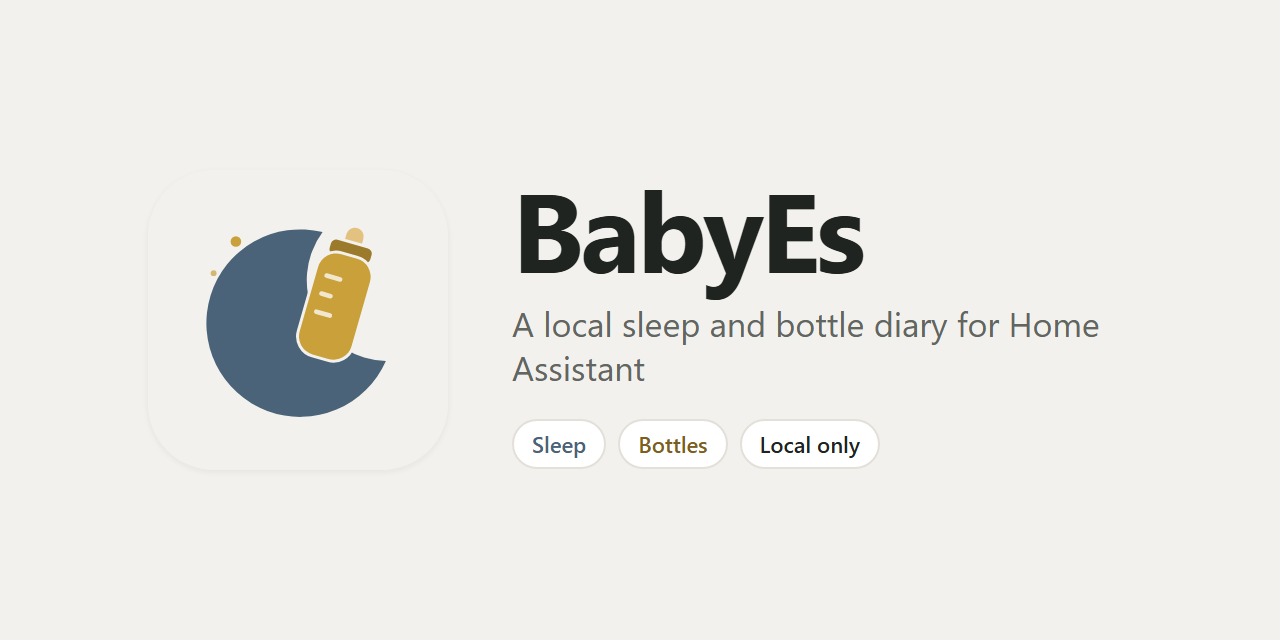
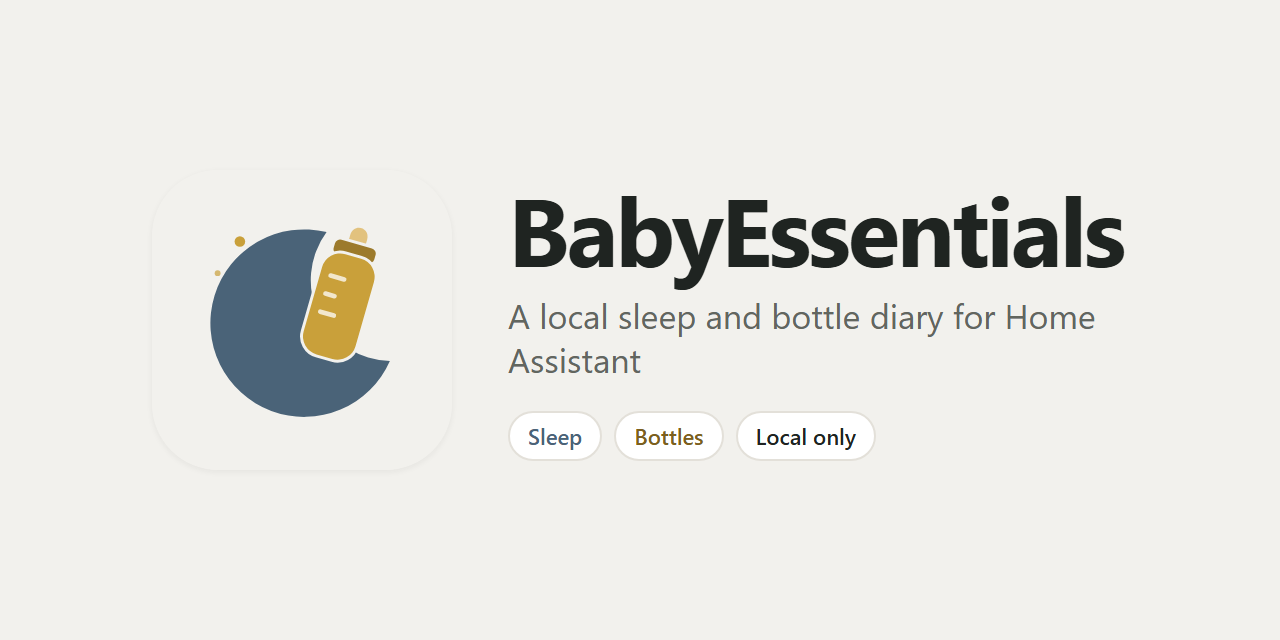
0.3.1: renamed to BabyEssentials, glowing moon while asleep, +/- round typed amounts

diff --git a/custom_components/babyes/frontend/babyes-card.js b/custom_components/babyes/frontend/babyes-card.js
@@ -1,8 +1,8 @@
-/* BabyEs Card
- * Sleep and bottle diary card for Home Assistant. Served by the BabyEs
+/* BabyEssentials Card
+ * Sleep and bottle diary card for Home Assistant. Served by the BabyEssentials
  * integration itself, so no dashboard resource is needed.
  *
- * Talks only to the BabyEs WebSocket API (babyes/*). Stores nothing itself,
+ * Talks only to the BabyEssentials WebSocket API (babyes/*). Stores nothing itself,
  * except whether the timeline is shown (localStorage, per device).
  * "Undo" only deletes the single entry this card created seconds earlier.
  * Language, 12/24-hour clock and colours follow the user's Home Assistant
@@ -15,7 +15,7 @@
 (() => {
   "use strict";
   const TAG = "babyes-card";
-  const VERSION = "0.3.0";
+  const VERSION = "0.3.1";
   if (customElements.get(TAG)) return;
 
   /* ---------- language ---------- */
@@ -65,7 +65,7 @@
       validWake: "Velg et gyldig tidspunkt for oppvåkning.", chooseWake: "Velg når søvnen sluttet.",
       wakeAfter: "Våknet må være etter sovnet.", noConn: "Ingen tilkobling til Home Assistant.",
       unknownErr: "Ukjent feil",
-      notSetup: "BabyEs er ikke satt opp. Legg den til under Innstillinger → Enheter og tjenester.",
+      notSetup: "BabyEssentials er ikke satt opp. Legg den til under Innstillinger → Enheter og tjenester.",
       h: "t", min: "min", cfgName: "Navn (valgfritt)", cfgStep: "Steg per trykk",
       cardDesc: "Søvn og flaske i ett kort: start/stopp søvn, ny flaske, historikk og grafer.",
       err_invalid_time: "Ugyldig dato eller klokkeslett.", err_no_timezone: "Tidspunktet må ha tidssone.",
@@ -81,7 +81,7 @@
       err_amount_invalid: "Mengder må være hele tall mellom 0 og 1000 ml.", err_amount_zero: "Registrer minst 1 ml.",
       err_note_too_long: "Notatet er for langt.", err_not_found: "Fant ikke registreringen. Last inn historikken på nytt.",
       err_conflict: "Registreringen er endret på en annen enhet. Åpne den på nytt.",
-      err_not_ready: "BabyEs er ikke satt opp eller laster fortsatt.",
+      err_not_ready: "BabyEssentials er ikke satt opp eller laster fortsatt.",
       err_storage_error: "Kunne ikke lagre. Prøv igjen.",
     },
     en: {
@@ -129,7 +129,7 @@
       validWake: "Choose a valid wake-up time.", chooseWake: "Choose when the sleep ended.",
       wakeAfter: "Wake-up must be after falling asleep.", noConn: "No connection to Home Assistant.",
       unknownErr: "Unknown error",
-      notSetup: "BabyEs is not set up. Add it under Settings → Devices & services.",
+      notSetup: "BabyEssentials is not set up. Add it under Settings → Devices & services.",
       h: "h", min: "min", cfgName: "Name (optional)", cfgStep: "Step per tap",
       cardDesc: "Sleep and bottles in one card: start/stop sleep, new bottle, history and charts.",
       err_invalid_time: "Invalid date or time.", err_no_timezone: "The time must include a time zone.",
@@ -145,7 +145,7 @@
       err_amount_invalid: "Amounts must be whole numbers between 0 and 1000 ml.", err_amount_zero: "Register at least 1 ml.",
       err_note_too_long: "The note is too long.", err_not_found: "The entry was not found. Reload the history.",
       err_conflict: "The entry was changed on another device. Open it again.",
-      err_not_ready: "BabyEs is not set up or still loading.",
+      err_not_ready: "BabyEssentials is not set up or still loading.",
       err_storage_error: "Could not save. Try again.",
     },
   };
@@ -261,6 +261,26 @@
     });
     return best ? best.raw : "";
   };
+  // Moonlight while asleep: a night sky made from the theme's sleep colour,
+  // darkened just enough that the pale moon on it has at least 4.5:1 contrast,
+  // and a moon tinted slightly towards the same colour.
+  const lum = ([r, g, b]) => {
+    const f = (c) => { c /= 255; return c <= 0.03928 ? c / 12.92 : ((c + 0.055) / 1.055) ** 2.4; };
+    return 0.2126 * f(r) + 0.7152 * f(g) + 0.0722 * f(b);
+  };
+  const contrast = (a, b) => { const x = lum(a), y = lum(b); return (Math.max(x, y) + 0.05) / (Math.min(x, y) + 0.05); };
+  const mix = (a, b, w) => a.map((v, i) => Math.round(v * (1 - w) + b[i] * w));
+  const hex = (c) => `#${c.map((v) => v.toString(16).padStart(2, "0")).join("")}`;
+  const pickNightColours = (el) => {
+    const cs = getComputedStyle(el);
+    const sleep = toRgb(cs.getPropertyValue("--be-sleep")) || [3, 169, 244];
+    const moon = mix([255, 247, 222], sleep, 0.12);
+    const deep = [10, 14, 30];
+    let sky = sleep;
+    for (let w = 0.25; w <= 1; w += 0.05) { sky = mix(sleep, deep, w); if (contrast(moon, sky) >= 4.5) break; }
+    const vars = { "--be-night-sky": hex(sky), "--be-moon": hex(moon) };
+    return { key: `${vars["--be-night-sky"]}|${vars["--be-moon"]}`, vars };
+  };
   // Formula gets its own theme colour, as far as possible from both the
   // breast-milk colour and the sleep colour, so the two never look alike.
   const pickFormulaColour = (el) => {
@@ -368,7 +388,23 @@
   .eyebrow{font-size:12px;line-height:16px;letter-spacing:.06em;text-transform:uppercase;font-weight:600;color:var(--be-sleep-ink);white-space:nowrap;overflow:hidden;text-overflow:ellipsis}
   .headline{margin:0;font-size:22px;line-height:1.2;font-weight:600;letter-spacing:-.01em}
   .sub{font-size:14px;color:var(--be-muted)}
-  .badge{width:40px;height:40px;flex:none;border-radius:50%;display:grid;place-items:center;background:color-mix(in srgb,var(--be-sleep) 14%,var(--be-card));color:var(--be-sleep-ink)}
+  .badge{position:relative;width:40px;height:40px;flex:none;border-radius:50%;display:grid;place-items:center;background:color-mix(in srgb,var(--be-sleep) 14%,var(--be-card));color:var(--be-sleep-ink)}
+  /* asleep: a lit moon on a night sky in the theme's sleep colour, a slow breathing glow
+     and two twinkling stars, so it reads at a glance without any text */
+  .top{position:relative}
+  .top>*{position:relative}
+  .top.night::before{content:"";position:absolute;top:-60px;right:-60px;width:220px;height:200px;border-radius:50%;pointer-events:none;
+    background:radial-gradient(closest-side,color-mix(in srgb,var(--be-sleep) 24%,transparent),transparent);animation:be-glow 4s ease-in-out infinite;animation-delay:var(--be-phase,0s)}
+  .badge.night{width:44px;height:44px;margin:-2px -2px 0 0;background:radial-gradient(circle at 35% 30%,color-mix(in srgb,var(--be-night-sky) 80%,var(--be-moon)),var(--be-night-sky) 70%);color:var(--be-moon);
+    box-shadow:0 0 0 3px color-mix(in srgb,var(--be-sleep) 22%,transparent),0 0 18px 3px color-mix(in srgb,var(--be-sleep) 45%,transparent);animation:be-halo 4s ease-in-out infinite;animation-delay:var(--be-phase,0s)}
+  .badge.night .ico{fill:currentColor;stroke:currentColor;filter:drop-shadow(0 0 4px color-mix(in srgb,var(--be-moon) 70%,transparent))}
+  .badge.night i{position:absolute;width:3px;height:3px;border-radius:50%;background:var(--be-moon);animation:be-twinkle 2.6s ease-in-out infinite}
+  .badge.night i:nth-of-type(1){top:9px;right:9px;animation-delay:calc(var(--be-phase,0s) * .65)}
+  .badge.night i:nth-of-type(2){bottom:10px;left:10px;width:2px;height:2px;animation-delay:calc(var(--be-phase,0s) * .65 - 1.3s)}
+  @keyframes be-halo{0%,100%{box-shadow:0 0 0 3px color-mix(in srgb,var(--be-sleep) 18%,transparent),0 0 12px 2px color-mix(in srgb,var(--be-sleep) 32%,transparent)}
+    50%{box-shadow:0 0 0 5px color-mix(in srgb,var(--be-sleep) 26%,transparent),0 0 26px 6px color-mix(in srgb,var(--be-sleep) 55%,transparent)}}
+  @keyframes be-glow{0%,100%{opacity:.65}50%{opacity:1}}
+  @keyframes be-twinkle{0%,100%{opacity:.25;transform:scale(.7)}50%{opacity:1;transform:scale(1)}}
   .strip{width:100%;min-height:48px;display:flex;align-items:center;gap:8px;padding:6px 6px 6px 12px;border:0;border-radius:12px;background:var(--be-soft);text-align:left;transition:background-color .15s ease}
   .strip:hover{background:color-mix(in srgb,var(--be-ink) 8%,var(--be-card))}
   .halves{flex:1;min-width:0;display:grid;grid-template-columns:repeat(2,minmax(0,1fr))}
@@ -515,7 +551,7 @@
   @media (prefers-reduced-motion:reduce){*,*::backdrop{animation:none!important;transition:none!important}}
   `;
 
-  class BabyEsCard extends HTMLElement {
+  class BabyEssentialsCard extends HTMLElement {
     constructor() {
       super();
       this.attachShadow({ mode: "open" });
@@ -648,7 +684,7 @@
     get _name() { return this._config.name || this._backendName || "Baby"; }
 
     setConfig(config) {
-      if (!config || typeof config !== "object") throw new Error("BabyEs: invalid configuration.");
+      if (!config || typeof config !== "object") throw new Error("BabyEssentials: invalid configuration.");
       const step = Math.trunc(num(config.step ?? 5));
       this._config = { name: String(config.name || ""), step: Math.max(1, Math.min(50, step || 5)) };
       this._renderCard();
@@ -681,6 +717,11 @@
         this._feedColour = c;
         if (c) this.style.setProperty("--be-feed-auto", c);
         else this.style.removeProperty("--be-feed-auto");
+      }
+      const night = pickNightColours(this);
+      if (night.key !== this._nightKey) {
+        this._nightKey = night.key;
+        for (const [k, v] of Object.entries(night.vars)) this.style.setProperty(k, v);
       }
       const f = pickFormulaColour(this);
       if (f === this._formulaColour) return;
@@ -829,9 +870,9 @@
         </div></div></div>`;
 
       this._cardEl.innerHTML = `<ha-card class="be">
-        <div class="top">
+        <div class="top${ongoing ? " night" : ""}" style="--be-phase:${-((now % 4000) / 1000).toFixed(2)}s">
           <div class="head"><div class="state"><span class="eyebrow">${esc(name)}</span><h2 class="headline">${esc(headline)}</h2><span class="sub">${esc(since)}</span></div>
-            <span class="badge" aria-hidden="true">${icon(ongoing ? "moon" : "sun", 20)}</span></div>
+            <span class="badge${ongoing ? " night" : ""}" aria-hidden="true">${icon(ongoing ? "moon" : "sun", ongoing ? 22 : 20)}${ongoing ? "<i></i><i></i>" : ""}</span></div>
           <div class="slot" role="status" aria-live="polite">${slot}</div>
           <button type="button" class="tl-toggle" data-action="timeline" aria-expanded="${open}" aria-controls="tl" ${!ready ? "disabled" : ""}>${esc(open ? t("hideTimeline") : t("showTimeline"))}${icon("down", 16)}</button>
           ${timeline}
@@ -1180,7 +1221,10 @@
         case "back": this._form = null; this._pane = "history"; this._renderSheet(); this._animate("swap", 260); return;
         case "use-last": { const l = this._lastFeed(); if (l) { this._form.breast = clampMl(l.e.breast_milk_ml); this._form.formula = clampMl(l.e.formula_ml); this._renderSheet(); } return; }
         case "step": {
-          this._form[el.dataset.key] = clampMl(this._form[el.dataset.key] + Number(el.dataset.d) * step);
+          // A typed amount off the step (23) first snaps to it (+ → 25, − → 20), then moves a whole step.
+          const cur = clampMl(this._form[el.dataset.key]), dir = Number(el.dataset.d);
+          const off = cur % step;
+          this._form[el.dataset.key] = clampMl(off ? (dir > 0 ? cur - off + step : cur - off) : cur + dir * step);
           this._bump = el.dataset.key; this._renderSheet(); this._bump = "";
           return;
         }
@@ -1314,11 +1358,11 @@
     }
   }
 
-  customElements.define(TAG, BabyEsCard);
+  customElements.define(TAG, BabyEssentialsCard);
   window.customCards = window.customCards || [];
   if (!window.customCards.some((c) => c.type === TAG)) {
     pickLang({ language: document.documentElement.lang });
-    window.customCards.push({ type: TAG, name: "BabyEs", description: t("cardDesc"), preview: false });
+    window.customCards.push({ type: TAG, name: "BabyEssentials", description: t("cardDesc"), preview: false });
   }
-  console.info(`%c BABYES CARD %c ${VERSION} `, "background:#3E3A45;color:#F3EEF1;font-weight:bold", "background:#C9AEBC;color:#2A2430");
+  console.info(`%c BABYESSENTIALS CARD %c ${VERSION} `, "background:#3E3A45;color:#F3EEF1;font-weight:bold", "background:#C9AEBC;color:#2A2430");
 })();

diff --git a/custom_components/babyes/frontend/babyes-loader.js b/custom_components/babyes/frontend/babyes-loader.js
@@ -1,4 +1,4 @@
-/* BabyEs card loader.
+/* BabyEssentials card loader.
  * Home Assistant registers this small file once at startup. On every page
  * load it asks the server which version of babyes-card.js is on disk (a HEAD
  * request; only headers, no download) and imports the card with that version

diff --git a/custom_components/babyes/config_flow.py b/custom_components/babyes/config_flow.py
@@ -1,4 +1,4 @@
-"""Set up BabyEs from the UI. The name you enter stays in your Home Assistant only."""
+"""Set up BabyEssentials from the UI. The name you enter stays in your Home Assistant only."""
 from __future__ import annotations
 
 try:
@@ -16,7 +16,7 @@ def _name(value) -> str:
     return (str(value or "").strip() or DEFAULT_NAME)[:40]
 
 
-class BabyEsConfigFlow(config_entries.ConfigFlow, domain=DOMAIN):
+class BabyEssentialsConfigFlow(config_entries.ConfigFlow, domain=DOMAIN):
     VERSION = 1
 
     async def async_step_user(self, user_input=None):
@@ -32,10 +32,10 @@ class BabyEsConfigFlow(config_entries.ConfigFlow, domain=DOMAIN):
     @staticmethod
     @callback
     def async_get_options_flow(config_entry):
-        return BabyEsOptionsFlow()
+        return BabyEssentialsOptionsFlow()
 
 
-class BabyEsOptionsFlow(config_entries.OptionsFlow):
+class BabyEssentialsOptionsFlow(config_entries.OptionsFlow):
     async def async_step_init(self, user_input=None):
         if user_input is not None:
             name = _name(user_input.get(CONF_NAME))

diff --git a/custom_components/babyes/entity.py b/custom_components/babyes/entity.py
@@ -1,4 +1,4 @@
-"""Shared base for BabyEs entities: one device named by the user, translated entity names."""
+"""Shared base for BabyEssentials entities: one device named by the user, translated entity names."""
 from __future__ import annotations
 
 from homeassistant.core import callback
@@ -8,7 +8,7 @@ from homeassistant.helpers.entity import Entity
 from .const import DOMAIN, VERSION
 
 
-class BabyEsEntity(Entity):
+class BabyEssentialsEntity(Entity):
     _attr_should_poll = False
     _attr_has_entity_name = True
 
@@ -20,7 +20,7 @@ class BabyEsEntity(Entity):
         self._attr_device_info = DeviceInfo(
             identifiers={(DOMAIN, entry.entry_id)},
             name=runtime["name"],
-            manufacturer="BabyEs",
+            manufacturer="BabyEssentials",
             model="Diary",
             sw_version=VERSION,
             entry_type=DeviceEntryType.SERVICE,

diff --git a/custom_components/babyes/sensor.py b/custom_components/babyes/sensor.py
@@ -13,7 +13,7 @@ from datetime import datetime
 from homeassistant.components.sensor import SensorDeviceClass, SensorEntity
 from homeassistant.const import UnitOfTime, UnitOfVolume
 
-from .entity import BabyEsEntity
+from .entity import BabyEssentialsEntity
 from .runtime import get_runtime
 from .store import Diary, parse, utcnow
 
@@ -77,10 +77,10 @@ SPECS = (
 
 async def async_setup_entry(hass, entry, async_add_entities) -> None:
     runtime = get_runtime(hass)
-    async_add_entities([BabyEsSensor(runtime, spec) for spec in SPECS])
+    async_add_entities([BabyEssentialsSensor(runtime, spec) for spec in SPECS])
 
 
-class BabyEsSensor(BabyEsEntity, SensorEntity):
+class BabyEssentialsSensor(BabyEssentialsEntity, SensorEntity):
     def __init__(self, runtime: dict, spec: Spec) -> None:
         super().__init__(runtime, spec.key)
         self._spec = spec

diff --git a/custom_components/babyes/websocket.py b/custom_components/babyes/websocket.py
@@ -1,4 +1,4 @@
-"""Authenticated WebSocket API used by the BabyEs dashboard card."""
+"""Authenticated WebSocket API used by the BabyEssentials dashboard card."""
 from __future__ import annotations
 
 from typing import Any
@@ -18,7 +18,7 @@ from .store import Diary, DiaryError
 def _diary(hass, connection, msg) -> Diary | None:
     runtime = get_runtime(hass)
     if runtime is None:
-        connection.send_error(msg["id"], "not_ready", "BabyEs is not set up or still loading.")
+        connection.send_error(msg["id"], "not_ready", "BabyEssentials is not set up or still loading.")
         return None
     return runtime["diary"]
 

diff --git a/custom_components/babyes/binary_sensor.py b/custom_components/babyes/binary_sensor.py
@@ -3,7 +3,7 @@ from __future__ import annotations
 
 from homeassistant.components.binary_sensor import BinarySensorEntity
 
-from .entity import BabyEsEntity
+from .entity import BabyEssentialsEntity
 from .runtime import get_runtime
 
 
@@ -11,7 +11,7 @@ async def async_setup_entry(hass, entry, async_add_entities) -> None:
     async_add_entities([SleepingSensor(get_runtime(hass), "sleeping")])
 
 
-class SleepingSensor(BabyEsEntity, BinarySensorEntity):
+class SleepingSensor(BabyEssentialsEntity, BinarySensorEntity):
     @property
     def is_on(self) -> bool:
         return self._diary.ongoing() is not None

diff --git a/custom_components/babyes/store.py b/custom_components/babyes/store.py
@@ -1,4 +1,4 @@
-"""BabyEs diary: sleep periods and bottle feeds in one Home Assistant Store.
+"""BabyEssentials diary: sleep periods and bottle feeds in one Home Assistant Store.
 
 The data lives in ``/config/.storage/babyes.diary`` and is part of every Home
 Assistant backup. Every write is atomic at diary level: persist first, then

diff --git a/custom_components/babyes/__init__.py b/custom_components/babyes/__init__.py
@@ -1,4 +1,4 @@
-"""BabyEs: sleep and bottle diary for Home Assistant.
+"""BabyEssentials: sleep and bottle diary for Home Assistant.
 
 Data is stored locally in /config/.storage/babyes.diary (included in backups).
 Nothing is sent anywhere. See README.md.

diff --git a/custom_components/babyes/const.py b/custom_components/babyes/const.py
@@ -1,4 +1,4 @@
-"""Constants for BabyEs."""
+"""Constants for BabyEssentials."""
 
 DOMAIN = "babyes"
 VERSION = "0.2.2"

diff --git a/README.md b/README.md
@@ -1,6 +1,6 @@
-<p align="center"><img src="images/logo.svg" alt="BabyEs logo" width="128"></p>
+<p align="center"><img src="images/logo.svg" alt="BabyEssentials logo" width="128"></p>
 
-# BabyEs
+# BabyEssentials
 
 A local sleep and bottle diary for Home Assistant, with a dashboard card.
 English and Norwegian (bokmål). [Norsk nedenfor](#norsk).
@@ -12,11 +12,13 @@ English and Norwegian (bokmål). [Norsk nedenfor](#norsk).
 - Entities and services for automations.
 - Everything is stored locally in Home Assistant (`/config/.storage/babyes.diary`) and included in backups. Nothing is sent anywhere.
 
+BabyEssentials was called BabyEs before version 0.3.1. Its id in Home Assistant is still `babyes`, so the card type, services and entities keep that name.
+
 ## Install
 
-1. In HACS, open **⋮ → Custom repositories**, add `https://github.com/sonkarlsen/BabyEs` with type **Integration**.
-2. Install **BabyEs** and restart Home Assistant.
-3. Go to **Settings → Devices & services → Add integration → BabyEs**. Enter a name (shown on the card).
+1. In HACS, open **⋮ → Custom repositories**, add `https://github.com/sonkarlsen/BabyEssentials` with type **Integration**.
+2. Install **BabyEssentials** and restart Home Assistant.
+3. Go to **Settings → Devices & services → Add integration → BabyEssentials**. Enter a name (shown on the card).
 
 The dashboard card is served by the integration, so no dashboard resource is needed. Add it to a dashboard:
 
@@ -49,7 +51,7 @@ Entity ids depend on the name you choose and your language.
 
 ## Theming, language and clock
 
-The card uses the colours of your active Home Assistant theme, in light and dark mode: card background, text and dividers from the theme, sleep in the theme's `primary-color` and bottles in its `accent-color`. If those two look too similar, bottles use another colour from the theme that stands out from the sleep colour. Formula gets a third theme colour that differs from both, so breast milk and formula are easy to tell apart. To give BabyEs its own colours, add any of these variables to your theme: `babyes-sleep-color`, `babyes-feed-color`, `babyes-milk-color`, `babyes-formula-color`, `babyes-card-color`.
+The card uses the colours of your active Home Assistant theme, in light and dark mode: card background, text and dividers from the theme, sleep in the theme's `primary-color` and bottles in its `accent-color`. If those two look too similar, bottles use another colour from the theme that stands out from the sleep colour. Formula gets a third theme colour that differs from both, so breast milk and formula are easy to tell apart. To give BabyEssentials its own colours, add any of these variables to your theme: `babyes-sleep-color`, `babyes-feed-color`, `babyes-milk-color`, `babyes-formula-color`, `babyes-card-color`.
 
 The language follows the language in your Home Assistant profile (Norwegian or English; other languages use English) and changes as soon as you switch it. Times follow the **Time format** in your profile (12 or 24 hours), like the rest of Home Assistant.
 
@@ -68,11 +70,13 @@ En lokal dagbok for søvn og flasker i Home Assistant, med eget dashbordkort.
 - Entiteter og tjenester til automasjoner.
 - Alt lagres lokalt i Home Assistant (`/config/.storage/babyes.diary`) og er med i sikkerhetskopiene. Ingenting sendes noe sted.
 
+BabyEssentials het BabyEs før versjon 0.3.1. ID-en i Home Assistant er fortsatt `babyes`, så korttypen, tjenestene og entitetene heter det samme som før.
+
 ### Installering
 
-1. I HACS: **⋮ → Egendefinerte repositorier**, legg til `https://github.com/sonkarlsen/BabyEs` med type **Integrasjon**.
-2. Installer **BabyEs** og start Home Assistant på nytt.
-3. Gå til **Innstillinger → Enheter og tjenester → Legg til integrasjon → BabyEs**. Skriv inn et navn (vises på kortet).
+1. I HACS: **⋮ → Egendefinerte repositorier**, legg til `https://github.com/sonkarlsen/BabyEssentials` med type **Integrasjon**.
+2. Installer **BabyEssentials** og start Home Assistant på nytt.
+3. Gå til **Innstillinger → Enheter og tjenester → Legg til integrasjon → BabyEssentials**. Skriv inn et navn (vises på kortet).
 
 Kortet leveres av integrasjonen, så du trenger ikke legge til en ressurs. Legg det i dashbordet:
 

diff --git a/CHANGELOG.md b/CHANGELOG.md
@@ -2,6 +2,17 @@
 
 Each release says whether Home Assistant needs a restart. Card-only updates only need a reload of the dashboard.
 
+## 0.3.1
+
+Restart needed: **no** for the card; reload the dashboard. The new name shows under Devices & services after the next restart.
+
+### Name
+- BabyEs is now called **BabyEssentials**, in Home Assistant, HACS and the card picker, and the repository is now `sonkarlsen/BabyEssentials`. Nothing changes for an existing setup: the integration id (`babyes`), the card type (`custom:babyes-card`), the services (`babyes.*`), the entities and the stored diary keep their names, so automations and dashboards keep working.
+
+### Card
+- While the baby sleeps, the moon lights up: a pale moon on a night sky in your theme's sleep colour, with a slow glow and two twinkling stars, so you can see it at a glance. The sky is darkened just enough to keep the moon clearly readable in any theme. Animations stop with "reduce motion".
+- After typing an amount, + and − first round to the step (5 ml by default), then move a whole step: 23, then + gives 25, then 30. − gives 20, then 15.
+
 ## 0.3.0
 
 Restart needed: **no**. Reload the dashboard.
@@ -30,7 +41,7 @@ Restart needed: **yes**, once. After this, updates that only change the card nee
 
 ### Integration
 - Card updates now show after a page reload, without restarting Home Assistant.
-- BabyEs now ships its own icon (light and dark), shown in Home Assistant 2026.3 and later, for example under Devices & services and in HACS updates.
+- BabyEssentials now ships its own icon (light and dark), shown in Home Assistant 2026.3 and later, for example under Devices & services and in HACS updates.
 
 ## 0.2.0
 
@@ -43,7 +54,7 @@ Restart needed: **yes**, once. After this, updates that only change the card nee
 - Pop-ups slide up and down, their content fades in, and amounts give a small bounce when changed. Turned off when your device asks for reduced motion.
 
 ### Integration
-- Removed the import from the earlier stand-alone sleep and bottle integrations (the setup option and the `babyes.import_history` service). Entries that were already imported stay in BabyEs.
+- Removed the import from the earlier stand-alone sleep and bottle integrations (the setup option and the `babyes.import_history` service). Entries that were already imported stay in BabyEssentials.
 
 ### Repository
 - New logo (`images/logo.svg`) and social preview image.
